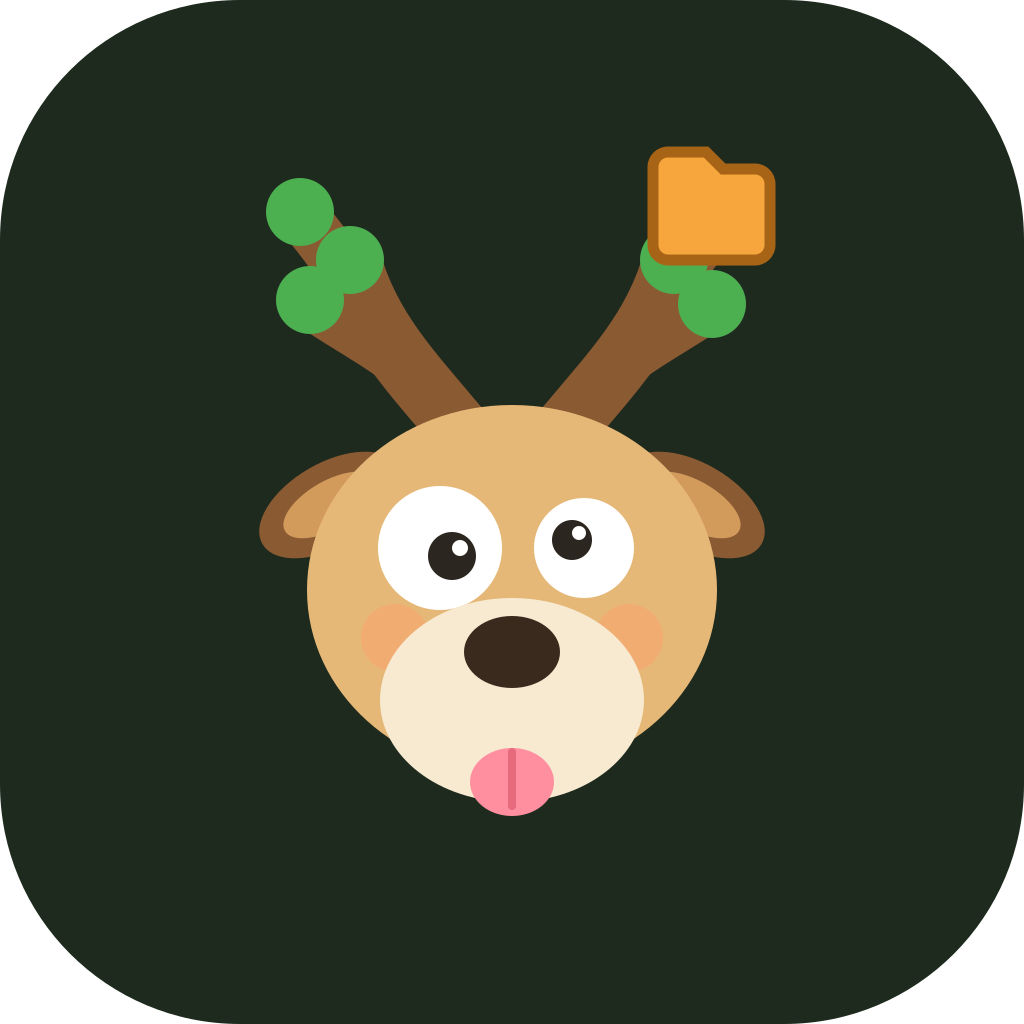
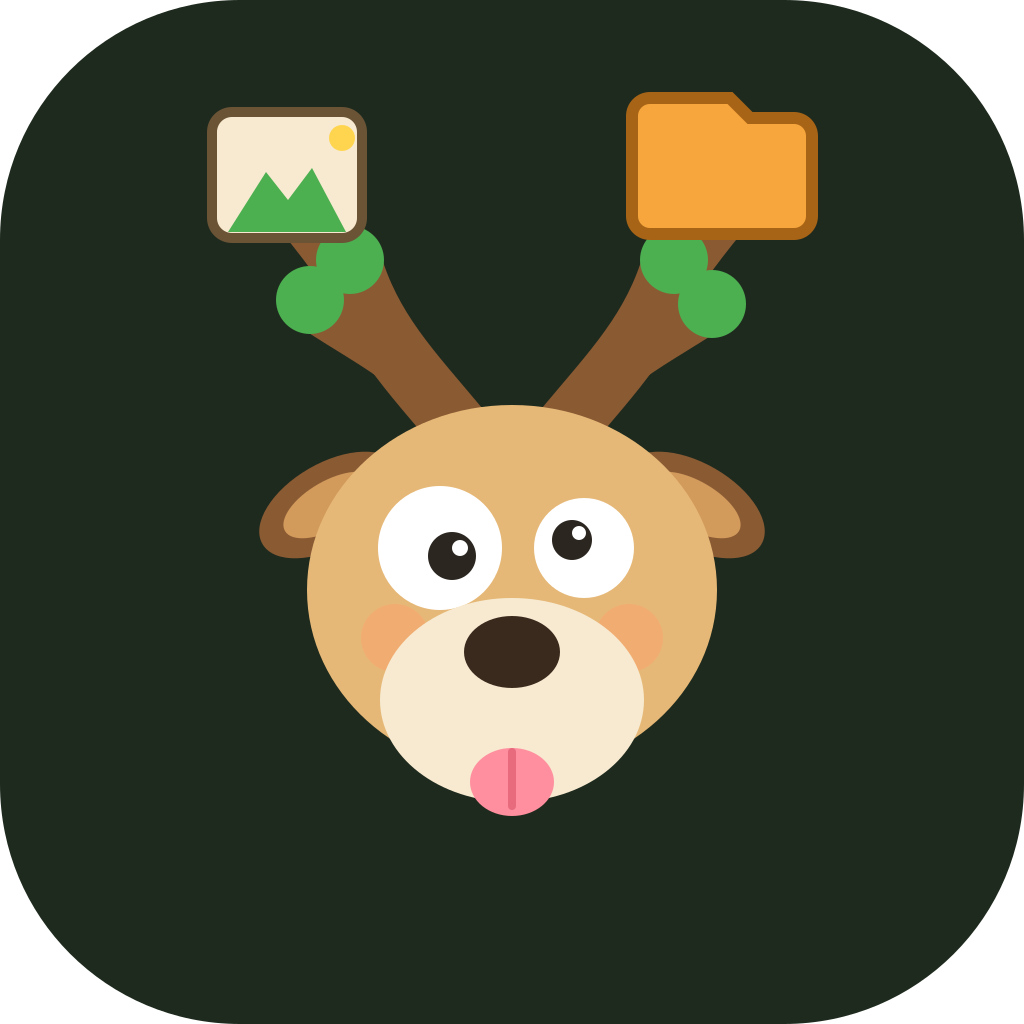
feat(app): LAN-deer antlers carry a folder and a photo
The directory-tree story was hard to read when small: the folder grew
from ~118 to ~180 units and now rides the right antler's top tip, and
a photo card (cream, green mountain, sun) mirrors it on the left tip.
Both are lifted slightly above the tips so the mid-tip green
file-nodes on the lower tines stay visible at launcher sizes (48px+).
Regenerated app/assets/icon.png, the Android/iOS launcher icons and
the Linux runner resource from the updated SVG source.

Generated by Mistral Vibe.

Changed region(s): [[0.5938, 0.0625, 0.8125, 0.2812], [0.1875, 0.0938, 0.375, 0.25]]

diff --git a/docs/design/002-lan-deer-icon.md b/docs/design/002-lan-deer-icon.md
@@ -3,24 +3,29 @@
 Status: **adopted** — this is the official LANdir app icon (asset +
 all platform launcher icons).
 
-> Small-size note: the file-node dots and the folder are deliberately
-> oversized (r=34 tips, ~118-unit folder) so the directory tree still
-> reads at launcher sizes. Down to roughly 48px the antlers read as
-> tree branches with green tips and a folder; below that it reduces
-> to a deer silhouette, like any flat icon.
+> Small-size note: the antler-tip content is deliberately oversized.
+> The right antler carries a directory folder (~180 units wide) and the
+> left one a photo card (mountain + sun, ~150 units); both are lifted
+> slightly above the upper tine tips so the mid-tip green file-nodes on
+> the lower tines still read at launcher sizes. Down to roughly 48px
+> the tree reads as branches holding a folder and a photo; below that
+> it reduces to a deer silhouette, like any flat icon.
 
 ## The idea
 
 "LANdir" is a near-exact homophone of **LAN-deer**. The mascot is a
 goofy reindeer whose antlers fork exactly like a **directory tree**:
-every tine tip carries a green file-node (the accent green of the web
-drop-zone, `#4caf50`), and one tine ends in a small folder — the "dir"
-half of the name, drawn.
+the tine tips carry green file-nodes (the accent green of the web
+drop-zone, `#4caf50`), the upper tips end in a directory folder and a
+photo card — the "dir" half of the name, drawn, along with what a LAN
+directory actually holds.
 
 Why it hangs together beyond the pun:
 
-- Antlers *are* forking trees — the standard "expand a directory"
-  glyph — and each tip doubles as a device on the LAN.
+- Every tine tip carries content — a green file-node, and on the upper
+  tips: a directory folder (right) and a photo card (left) — so both
+  halves of the name are drawn: the *dir* as the folder, the things a
+  *LAN directory* holds (files) riding the antlers.
 - Santa's reindeer are the original overnight file-delivery fleet.
 - The derp (one big eye, pupils askew, tongue out) keeps the tone of
   a tool you point at your friends' phones, not an enterprise suite.
